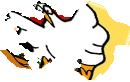
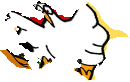
Tighten mask precision and rescue low-recall globe countries

Changed region(s): [[0.6769, 0.0, 1.0, 0.9512]]

diff --git a/tools/build_globe_global_warps.py b/tools/build_globe_global_warps.py
@@ -69,6 +69,9 @@ ART_PRIORITY_FALLBACK_MAX_TARGET_AREA_PX = 1200000
 ART_FALLBACK_BLEND_MIN_TARGET_AREA_PX = 4000
 ART_FALLBACK_BLEND_RECALL_DELTA = 0.010
 FORCED_ART_MASK_LOCK_MIN_RECALL = 0.90
+PRECISION_CLIP_GUARD_MIN_PRECISION = 0.93
+PRECISION_CLIP_GUARD_MAX_TARGET_AREA_PX = 42000
+LOW_RECALL_MASK_LOCK_MIN_RECALL = 0.90
 TINY_FALLBACK_MIN_SCORE_GAIN = 0.008
 
 # Region-specific tuning where one global default is not sufficient.
@@ -181,7 +184,9 @@ LARGE_ARCHIPELAGO_FALLBACK_FEATURE_KEYS = {
 ART_PRIORITY_FALLBACK_FEATURE_KEYS = {
     "ARG",
     "CAN",
+    "CHL",
     "CHN",
+    "ECU",
     "FIN",
     "FRA",
     "ITA",
@@ -200,6 +205,12 @@ ART_PRIORITY_FALLBACK_FEATURE_KEYS = {
 # Countries where the user explicitly reported visibly broken motifs.
 FORCED_ART_FALLBACK_FEATURE_KEYS = {
     "PER",
+}
+
+# Countries where the shared-sheet output can leave obvious in-mask dropouts.
+LOW_RECALL_MASK_LOCK_FEATURE_KEYS = {
+    "CUB",
+    "ECU",
 }
 
 AGGRESSIVE_RELAX_FEATURE_KEYS = {
@@ -1105,6 +1116,26 @@ def alpha_recall(alpha: np.ndarray, mask_u8: np.ndarray) -> float:
     return float(inter) / float(target_px)
 
 
+def alpha_precision(alpha: np.ndarray, mask_u8: np.ndarray) -> float:
+    tgt = mask_u8 > 0
+    pred = alpha > OUTPUT_ALPHA_THRESHOLD
+    pred_px = int(np.sum(pred))
+    if pred_px <= 0:
+        return 0.0
+    inter = int(np.sum(pred & tgt))
+    return float(inter) / float(pred_px)
+
+
+def clip_rgba_to_mask(rgba: np.ndarray, mask_u8: np.ndarray) -> np.ndarray:
+    mask = mask_u8 > 0
+    if not np.any(mask):
+        return rgba
+    out = rgba.copy()
+    out[:, :, 3] = np.where(mask, out[:, :, 3], 0).astype(np.uint8)
+    out[~mask, :3] = 0
+    return out
+
+
 def tiny_quality_score(alpha: np.ndarray, mask_u8: np.ndarray) -> float:
     # Prefer overlap quality first (IoU), but include a small boost for coverage
     # so tiny islands do not disappear into sparse fragments.
@@ -1850,11 +1881,29 @@ def main() -> None:
                 (job.target_shape.mask > 0).astype(np.uint8),
                 target_area=int(job.target_area),
             )
+            mask_u8 = (job.target_shape.mask > 0).astype(np.uint8)
+            feature_key = str(job.country.get("featureKey", ""))
+            precision = alpha_precision(warped_rgba[:, :, 3], mask_u8)
+            art_priority = feature_key in ART_PRIORITY_FALLBACK_FEATURE_KEYS
+            if (
+                not art_priority
+                and feature_key not in RELAXED_CLIP_FEATURE_KEYS
+                and int(job.target_area) <= PRECISION_CLIP_GUARD_MAX_TARGET_AREA_PX
+                and precision < PRECISION_CLIP_GUARD_MIN_PRECISION
+            ):
+                # Keep coastlines geographically tight for non-priority
+                # countries that otherwise spill noticeably outside the mask.
+                warped_rgba = clip_rgba_to_mask(warped_rgba, mask_u8)
+
+            if feature_key in LOW_RECALL_MASK_LOCK_FEATURE_KEYS:
+                recall = alpha_recall(warped_rgba[:, :, 3], mask_u8)
+                if recall < LOW_RECALL_MASK_LOCK_MIN_RECALL:
+                    warped_rgba = lock_alpha_to_mask(warped_rgba, mask_u8, pad_radius=1)
+
             warped_rgba[warped_rgba[:, :, 3] <= OUTPUT_ALPHA_THRESHOLD, :3] = 0
             iou = iou_from_alpha(warped_rgba[:, :, 3], job.target_shape.mask)
             region_iou_vals.append(iou)
 
-            feature_key = str(job.country.get("featureKey"))
             file_name = f"{feature_key}.webp"
             out_path = warped_dir / file_name
             Image.fromarray(warped_rgba, mode="RGBA").save(
